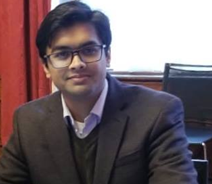
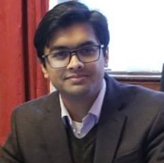
live 1 14 jan 2026

diff --git a/js/speakers.js b/js/speakers.js
@@ -78,9 +78,11 @@ export function loadSpeakers() {
                             ${speakersInCategory.map(speaker => `
                         </div>
                             <section class="profcard" id="${speaker.ID}" onclick="openSpeakerProfile('${speaker.ID}')">
-                                <div class="bands">
-                                    <img src="${speaker.FullPath}" onerror="this.onerror=null; this.src='${speaker.df}';">
-
+                               <div class="bands">
+                                    <div class="band-avatar">
+                                        <img src="${speaker.FullPath}" 
+                                            onerror="this.onerror=null; this.src='${speaker.df}';">
+                                    </div>
                                     <div class="content-box-b">
                                         <h3>${speaker.Name}</h3>
                                         <h4 style="font-weight: normal;">${speaker.Designation || ""} | ${speaker.Organization || ""}</h4>
@@ -270,7 +272,9 @@ window.openSpeakerProfile = function(speakerID) {
 
     modalBody.innerHTML = `
         <div class="band">
-            <img src="${speaker.querySelector('img').src}" onerror="this.onerror=null; this.src='${speaker.df}';">
+            <div class="band-avatar">
+                <img src="${speaker.querySelector('img').src}" onerror="this.onerror=null; this.src='${speaker.df}';">
+            </div>
             <div class="band2">
                 <h2>${speaker.querySelector('h3').textContent}</h2>
                 <p style="font-weight: normal">

diff --git a/css/styles.css b/css/styles.css
@@ -564,17 +564,27 @@ main h2 {
     padding: 0;
 }
 
-.bands img {
-    width: 75px;  
-    height: 75px; 
-    align-items: center;
-    object-fit: cover;  
+.band-avatar {
+    width: 75px;
+    height: 75px;
+    box-sizing: border-box;
+    border-radius: 50%;
+    overflow: hidden;              /* 🔥 clips image */
     border: 0.5px solid var(--primary-color);
     border-bottom: 3.5px solid var(--primary-color);
-    border-radius: 50%;
-    padding: 1px;
-    transition: transform 0.3s ease; 
+    padding: 0;
+    flex-shrink: 0;
 }
+
+.band-avatar img {
+    width: 100%;
+    height: 100%;
+    object-fit: cover;             /* handles non-square images */
+    object-position: top left;
+    display: block;                /* removes inline-gap issues */
+}
+
+
 .profcard > div {
     padding: 0px;
     margin: 3.5px;
